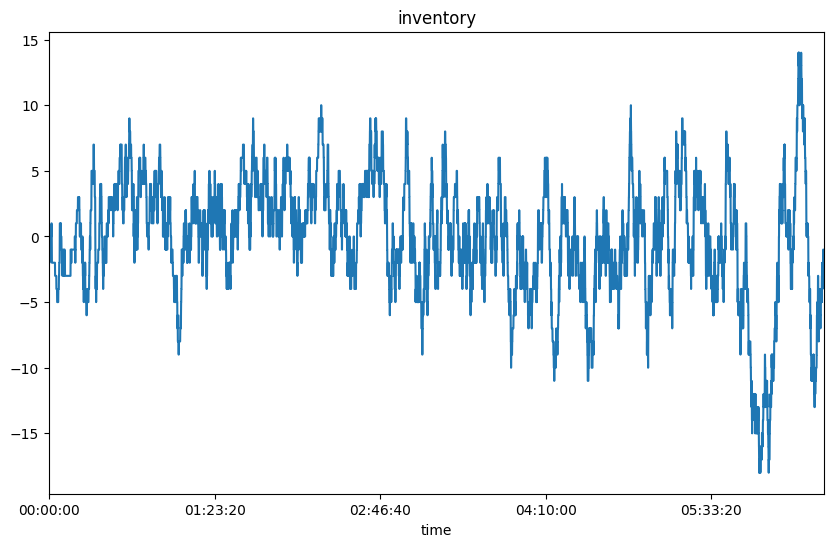
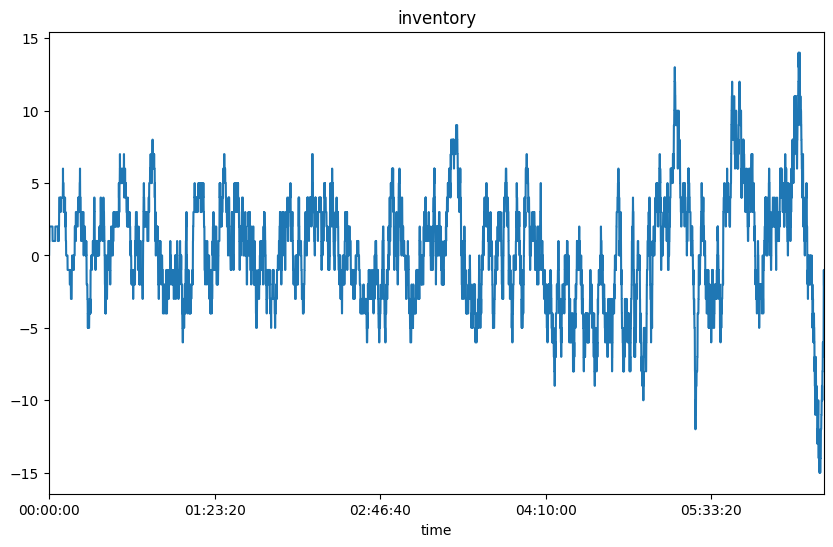
changes

diff --git a/_posts/2024-01-22-hft-in-lob.md b/_posts/2024-01-22-hft-in-lob.md
@@ -8,11 +8,7 @@ excerpt: "In this post, I replicate Avellaneda and Stoikov's 2008 paper, which s
 
 In this post, I replicate Avellaneda and Stoikov's 2008 paper _High Frequency Trading in a Limit Order Book_, which simulates a market-making strategy that sets quotes off an indifference price: an offset to the midprice based on inventory skew. I calibrate the model in Python to sample L2 data from LOBSTER & implement the paper - learning the basics of limit order books and the difficulties of simulating a HFT strat. 
 
-<!-- At first, I wanted to replicate Cont, Stoikov & Talreja's _A Stochastic Model of Order Book Dynamics_, but then I realized I didn't even know what market-making was. So, baby steps. -->
-
 The idea of this paper is to formulate a mathematical model of market-making based off _optimal control_ and then solve it, yielding an elegant formula for quotes. It is a _stylized_ model that ignores real world complexities like latency, queue position, fees, order types & sizes, adverse selection, etc (hence leading to unrealistic PnL). Regardless, it is still a good learning opportunity for an amateur like me!
-
-<!-- Avellaneda and Stoikov formulate their model as that of _agent_ seeking to maximize profits given a _value function_ with _optimal feedback controls_ under certain assumptions about the stock price and order book dynamics. This value function is expressed as a HJB formulation, then converted to a PDE, via some complex math beyond my skill level, then solved to yield the key formulas - for an _optimal_ set of bid and ask quotes under a dynamically evolving situation. -->
 
 # Paper Overview
 
@@ -20,11 +16,11 @@ The idea of a market-maker, I learned, is to quote (limit) bid and ask orders on
 
 Bouchaud in _Trades, Quotes & Prices_ illustrates: if a market-maker quotes a 54.50-55.50 market, an insider knows the company is about to announce a drop in profits and revises his valuation to 45. The insider sees the chance to short sell his stock for profit, and submits market sell orders, hitting the market makers bids. The maker adjusts his bids downwards, but still gets filled and accumulates inventory. At 50, the maker must offload his inventory at a loss.
 
-First, the value function:
+First, the value function. This is an expected value of wealth under exponential utility.
 
 $$u(s,x,q,t)=\max_{\delta^a, \delta^b}\mathbb{E}_t[-e^{-\gamma(X_T+q_TS_T)}]$$
 
-Maximizing the expected value of wealth under exponential utility by varying arguments (using complicated PDE & control theory math beyond my level) gives 
+Somehow, the authors use complicated PDE & control theory math (beyond my level) to get 
 
 $$r(s,t)=s-q\gamma\sigma^2(T-t)$$
 
@@ -34,7 +30,9 @@ $$\delta^a +\delta^b = \gamma \sigma^2(T-t) + \frac{2}{\gamma}\ln(1+\frac{\gamma
 
 $r$ is the midprice $s$ adjusted by an offset penalty. The offset term scales the inventory $q$ by the product of risk parameter $\gamma$, volatility $\sigma$ and the remaining time till the end of the trading session $T-t$.
 
-The idea is, as inventory $q$ accumulates (say as a result of adverse selection/trending downward prices), the offset term increases, $r$ drops and the quote distances (to $r$) $\delta^b$ and $\delta^a$ are unchanged. Then ask price $P_a$ is more aggressive while $P_b$ is deeper in the book. This causes asks to get lifted more, reducing inventory. Inventory then oscillates back and forth around set point 0.
+The idea is, as inventory $q$ accumulates (say as a result of adverse selection/trending downward prices), the offset term increases, $r$ drops and the quote distances (to $r$) $\delta^b$ and $\delta^a$ are unchanged. Then ask price $P_a$ is more aggressive while $P_b$ is deeper in the book. This causes asks to get lifted more, reducing inventory. Inventory then oscillates back and forth around set point 0. The risk parameter $\gamma$ is in between 0 and 1, and the larger it is, the larger the offsets and smaller the reservation spread, resulting in tighter inventory control.
+
+
 
 In the finite horizon case, as $t\rightarrow T$, e.g the trading day ends, the market-maker must clear his inventory. The offset term converges to the midprice, while the quoted spread decreases.
 
@@ -75,14 +73,13 @@ $$\lambda(\delta)=Ae^{-k\delta}$$
 This means $\lambda$ itself is an exponential function of $\delta$ with constants $A$ and $k$. How should they be computed? The paper does not say, but Lehalle provides the answer in [Quant Stackexchange](https://quant.stackexchange.com/questions/36073/how-does-one-calibrate-lambda-in-a-avellaneda-stoikov-market-making-problem?noredirect=1&lq=1):
 
 <center>
-<img src="{{ site.imageurl }}/HFTinLOB/lehalle1.png" style="width:75%;"/>
+<img src="{{ site.imageurl }}/HFTinLOB/lehalle1.png" style="width:80%;"/>
 </center>
 
 The idea is, for a given $\delta P$ to mid, what is the intensity to be hit? For any starting time $t_0$, record midprice, then calculate how long it takes for midprice to move by $\delta_P$. Take the mean under Poisson assumption and $\lambda=1/E(t)$. Pick two distances, then find $A$ and $k$ by this formula:
 
 <center>
-<img src="{{ site.imageurl }}/HFTinLOB/lehalle2.png" style="width:75%;"/>
-<figcaption>The formula is stated in a French-only paper by Sophie Laruelle</figcaption>
+<img src="{{ site.imageurl }}/HFTinLOB/lehalle2.png" style="width:80%;"/>
 </center>
 
 We first need 2 lambdas and two distances from mid to calibrate our curve. We first difference row wise (distance of price level to mid) and calculate quartiles. At 80th percentile, the dist from mid in L5 is $1.55$ and min is $0.05$.
@@ -91,7 +88,7 @@ We first need 2 lambdas and two distances from mid to calibrate our curve. We fi
 <img src="{{ site.imageurl }}/HFTinLOB/dist_1.png" style="width:70%;"/>
 </center>
 <center>
-<img src="{{ site.imageurl }}/HFTinLOB/dist_2.png" style="width:65%;"/>
+<img src="{{ site.imageurl }}/HFTinLOB/dist_2.png" style="width:60%;"/>
 </center>
 
 Then, we difference mid and calculate a running sum. Each time our sum exceeds our targets (above), we record the `TimeDelta`.
@@ -162,7 +159,8 @@ def simulate(ms, gamma, A, k):
 Then, at each $dt$, we calculate indifference price `r` and quotes `ra` , `rb`, from `r_spread`. If they are beyond the L1 bid/asks, we cap them at L1 bid/asks.
 
 ```python
-        # Reserve price
+        # Reserve price. Variance is scaled up as the intraday variance of log rets was so small,
+        # the offset term vanishes. Not sure about this one.
         o[i] = - q[i] * gamma * sigma**2 * (T-dt*i) * 1e4
         r[i] = s[i] + o[i] 
 
@@ -221,30 +219,38 @@ Then we calculate our fill probabilities in that timestep by comparing them to a
 
 The first thing I noticed is that our PnL is obviously unrealistic:
 
-```PnL picture```
+<center>
+<img src="{{ site.imageurl }}/HFTinLOB/pnl.png" style="width:60%;"/>
+</center>
 
 And across different runs:
 
-```PnL histogram```
 
-One problem is our simulated arrival rates do not take into account trend/adverse selection. In the insider trading example, if the future price was about to trend downwards, arrival rates of market buy orders should decrease while market sell orders increase. Fill rates for asks (bids) should decrease (increase) across all price levels - something not taken into account in the formula for $\lambda$.
+<center>
+<img src="{{ site.imageurl }}/HFTinLOB/pnls.png" style="width:60%;"/>
+</center>
 
-As mentioned, other real world aspects of the LOB like queue position, latency are not taken into account.
+One problem of course is that the stylized model of arrival rates are too simple and do not correspond to real world markets. In the adverse selection example, if an insider wants to dump his shares, arrival rates for hits and lifts should increase and decrease respectively. In addition, other aspects like queue position, latency are not taken into account.
+<center>
+<img src="{{ site.imageurl }}/HFTinLOB/inventory.png" style="width:60%;"/>
+</center>
 
-```Inventory picture```
+However, we can see the control theory aspect of the equations working as inventory oscillates about the zero point. Denoting `db1` as the distance of the quoted bid `rb` distance from `b1`, we can zoom in on a period where inventory peaks and then troughs:
 
-However, we can see the control theory aspect of the equations working as inventory oscillates about 0. Any accumulation of a long or short position forces the model to adjust the indifference price and quotes to restore equilibrium:
+<center>
+<img src="{{ site.imageurl }}/HFTinLOB/osc.png" style="width:100%;"/>
+</center>
 
-```o vs db and i plotted side by side```
+We can see that at as inventory peaks with a long position, the negative offset causes the market maker to quote more aggressive asks to clear it. Then, the makers inventory swings to short and he quotes more aggressive bids.
 
-Another article I found here suggested using autocorrelation of a lagged window of price changes as a signal to stop trading. If change our code to reflect this, inventory volatility reduces:
-
-```picture```
+Another [article](https://medium.com/open-crypto-market-data-initiative/from-classical-paper-to-practical-trader-a-quantitative-journey-part-vi-45b74709eda) suggested using lag 1 autocorrelation of a lagged window of price changes as a signal to stop trading as it indicates a trending market. It highlights that the A&S model corrects adverse selection after it has happened, but does not proactively avoid it.
 
 # Conclusion
 
-To conclude, in this post, I replicate Avellaneda & Stoikov's _High Frequency Trading in a Limit Order Book_. While the simulation is stylized, it still was a great learning opportunity for me to familiarize myself with basic order book dynamics, and how Poisson processes can be used to model microstructure. 
+To conclude, in this post, I replicate Avellaneda & Stoikov's _High Frequency Trading in a Limit Order Book_. While the simulation is stylized, it still was a great learning opportunity for me to familiarize myself with basic order book dynamics, and how Poisson processes can be used to model microstructure.
 
-On a tangential note, _A Stochastic Model of Order Book Dynamics_ by Cont, Stoikov & Talreja was the original paper I wanted to replicate. However, the maths/notation was too complex for me for now. In that paper, the authors model the first 5 levels of the order book as birth-death processes/queues, with incoming limit orders as births and market orders/cancellations as deaths. They then compute various conditional probabilities, e.g p(midprice increase $\|$ price moves). This was built on calculating first-passage times of queues (empty queue = price level change), which involved the numerical computation of inverse Laplace transforms in Python, something too advanced for me now.
+On a tangential note, _A Stochastic Model of Order Book Dynamics_ by Cont, Stoikov & Talreja was the original paper I wanted to replicate, but the math was too complex for me now. In that paper, the authors model levels of the order book as birth-death processes, with incoming limit orders as births and market orders/cancellations as deaths. They then compute various conditional probabilities, e.g _p(midprice increase $\|$ price moves)_ and _p(making the spread $\|$ midprice does not move)_ given queue depth and spread.
+
+This was built on calculating first-passage times of queues, which involved the numerical computation of inverse Laplace transforms in Python, something too advanced for me now.
 
 For future HFT/MM related papers to do, I would probably look more papers by Stoikov & Cont, e.g above and of course, _The Price Impact of Order Book Events_.
